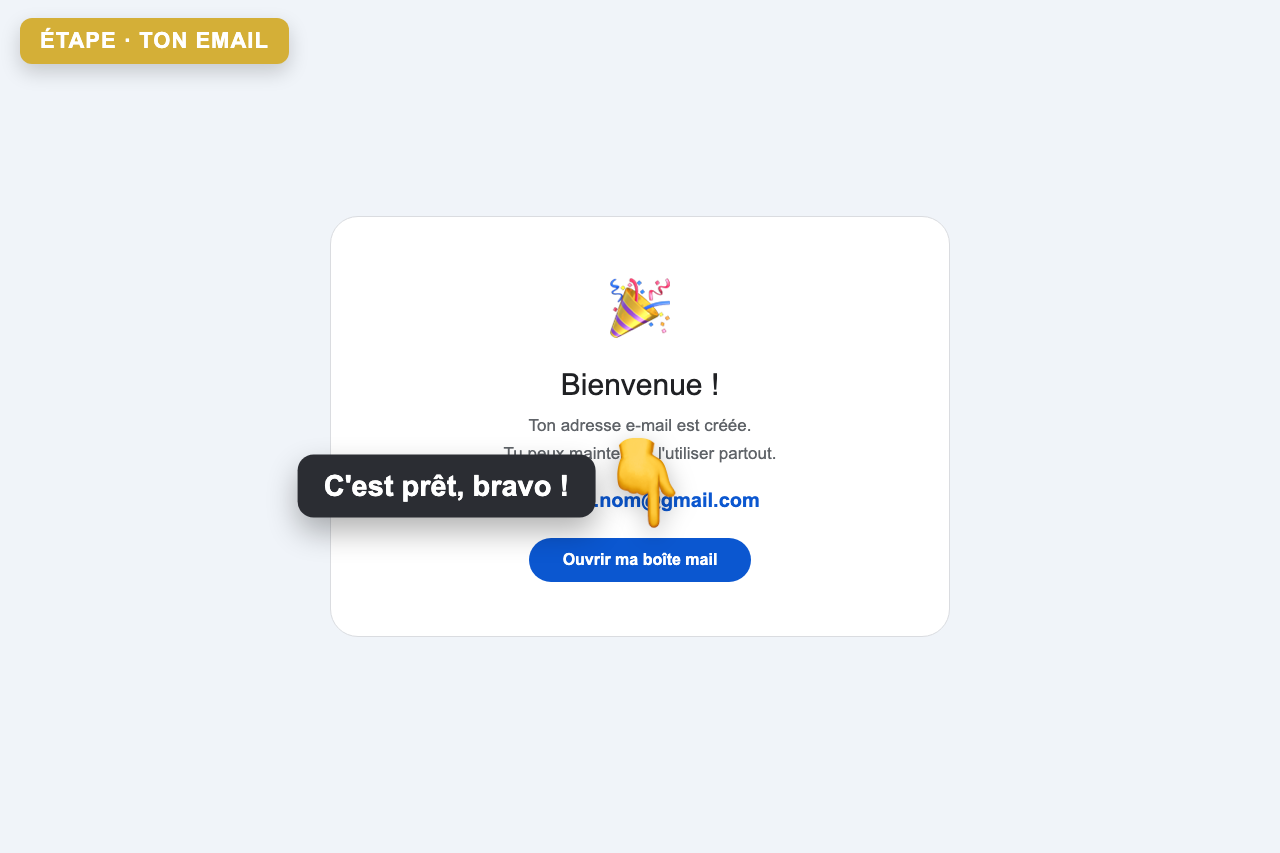
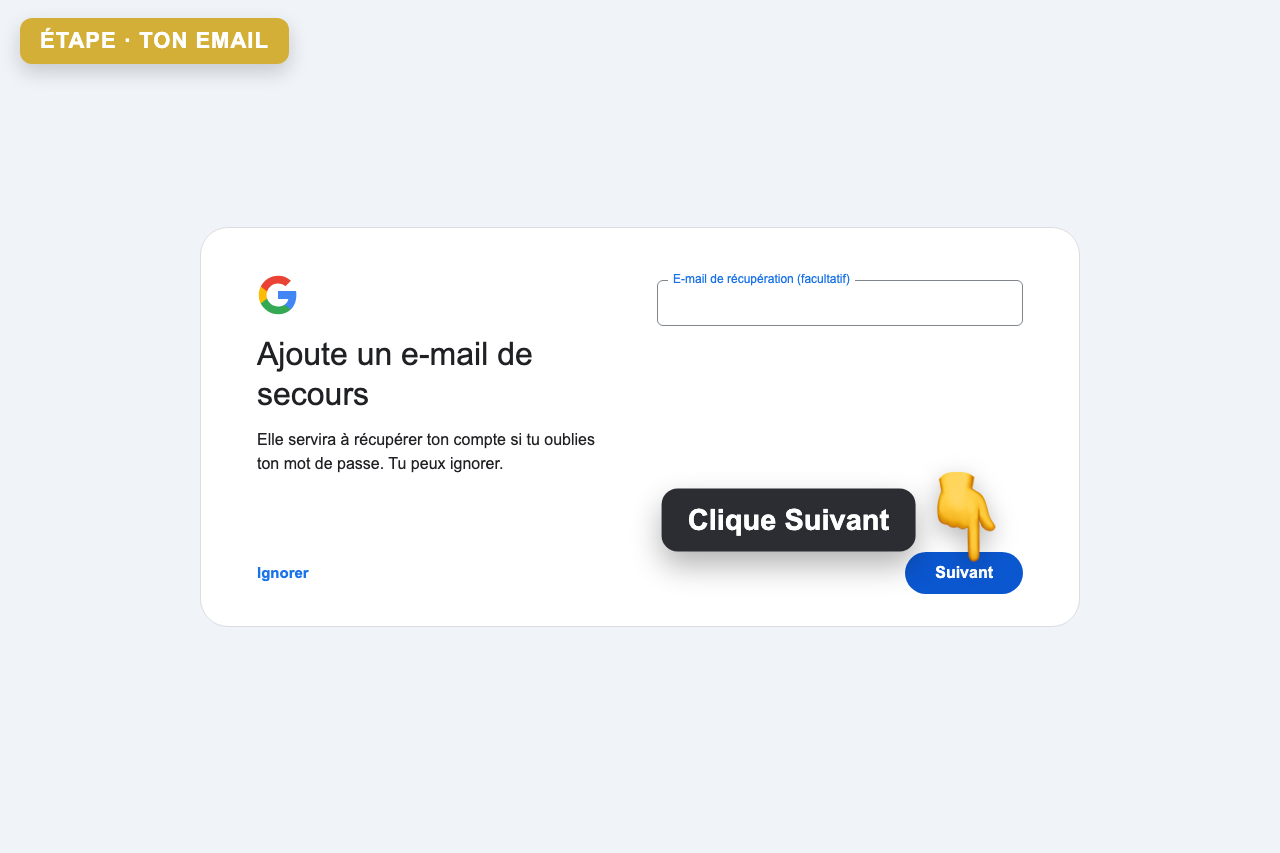
Gmail slider corrige (etape 5-6 tuto): SMS pre-ecrit + email recup + conditions + boite reception = 11 diapos

diff --git a/aventure/content.js b/aventure/content.js
@@ -60,7 +60,7 @@ const FORMATION = {
       {type:'action', emoji:"📨", kicker:"Mission · action",
        title:`Crée une adresse <span class="g">Gmail</span>`,
        msg:`Va sur gmail.com et clique « Créer un compte ». Avance avec les flèches et suis la main 👇`,
-       slider:["shots/gmail/1.png","shots/gmail/2.png","shots/gmail/3.png","shots/gmail/4.png","shots/gmail/5.png","shots/gmail/6.png","shots/gmail/7.png","shots/gmail/8.png","shots/gmail/9.png"],
+       slider:["shots/gmail/1.png","shots/gmail/2.png","shots/gmail/3.png","shots/gmail/4.png","shots/gmail/5.png","shots/gmail/6.png","shots/gmail/7.png","shots/gmail/8.png","shots/gmail/9.png","shots/gmail/10.png","shots/gmail/11.png"],
        say:`Note bien le mot de passe dans un carnet !`,
        hint:`Google demandera ton numéro pour t'envoyer un code — c'est normal.`,
        btns:[{label:"C'est fait ✓", cls:"green", points:10}]},